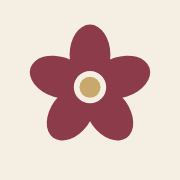
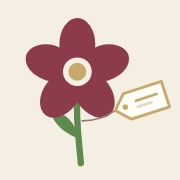
アイコン一式（名札の付いた花）・ファビコン・SNS 用バナーと紹介文
Claude-Session: https://claude.ai/code/session_01NVsEU5d99GVWPjXkzauReS

Changed region(s): [[0.1389, 0.0833, 0.9722, 0.9444]]

diff --git a/index.html b/index.html
@@ -3,23 +3,37 @@
 <head>
 <meta charset="utf-8">
 <meta name="viewport" content="width=device-width, initial-scale=1, viewport-fit=cover">
-<title>花しらべ</title>
-<meta name="description" content="写真やカメラから、花の名前を調べます。">
+<title>花しらべ｜花を撮るだけで、名前がわかる</title>
+<meta name="description" content="花の写真を撮るだけで、名前の候補がわかる無料のウェブアプリ。えらんだ名前を入れた画像を作って、写真に保存したり SNS で共有したりできます。">
+<meta property="og:type" content="website">
+<meta property="og:site_name" content="uniiqcode">
+<meta property="og:title" content="花しらべ｜花を撮るだけで、名前がわかる">
+<meta property="og:description" content="花の写真を撮るだけで、名前の候補がわかる無料のウェブアプリ。えらんだ名前を入れた画像を作って、写真に保存したり SNS で共有したりできます。">
+<meta property="og:url" content="https://uniiqcode.com/hana-shirabe/">
+<meta property="og:image" content="https://uniiqcode.com/hana-shirabe/icons/ogp.png">
+<meta property="og:image:width" content="1200">
+<meta property="og:image:height" content="630">
+<meta property="og:image:alt" content="花しらべ 花を撮るだけで、名前がわかる。">
+<meta property="og:locale" content="ja_JP">
+<meta name="twitter:card" content="summary_large_image">
+<link rel="canonical" href="https://uniiqcode.com/hana-shirabe/">
 <meta name="theme-color" content="#f5efe3">
 <link rel="manifest" href="manifest.webmanifest">
-<link rel="icon" href="icons/icon-192.png" sizes="192x192">
+<link rel="icon" href="icons/favicon.svg" type="image/svg+xml">
+<link rel="icon" href="icons/favicon-32.png" sizes="32x32" type="image/png">
+<link rel="icon" href="icons/favicon-16.png" sizes="16x16" type="image/png">
 <link rel="apple-touch-icon" href="icons/apple-touch-icon.png">
 <meta name="apple-mobile-web-app-title" content="花しらべ">
 <link rel="preconnect" href="https://fonts.googleapis.com">
 <link rel="preconnect" href="https://fonts.gstatic.com" crossorigin>
 <link href="https://fonts.googleapis.com/css2?family=Shippori+Mincho:wght@500;700&display=swap" rel="stylesheet">
-<link rel="stylesheet" href="style.css?v=2">
+<link rel="stylesheet" href="style.css?v=3">
 </head>
 <body>
 <main class="app">
   <header class="head">
     <h1>花しらべ</h1>
-    <p class="lead">花の写真から、名前を調べます</p>
+    <p class="lead">花を撮るだけで、名前がわかる</p>
   </header>
 
   <section class="picker" id="picker">
@@ -32,6 +46,13 @@
       <span>写真から選ぶ</span>
     </label>
     <p class="tip">花を画面の真ん中に、大きく写すと当たりやすくなります。</p>
+
+    <div class="about">
+      <h2>花しらべについて</h2>
+      <p>道ばたや庭で見つけた花を、スマホで撮るだけで名前を調べられます。</p>
+      <p>名前の候補から一つえらぶと、花の写真の下に名前の入った画像ができます。写真に保存したり、SNS で共有したりできます。</p>
+      <p>アプリを入れる必要はありません。ホーム画面に追加すると、アプリのように使えます。</p>
+    </div>
   </section>
 
   <section class="result" id="result" hidden>

diff --git a/icons/ogp.html b/icons/ogp.html
@@ -1,0 +1,30 @@
+<!doctype html>
+<html lang="ja">
+<head>
+<meta charset="utf-8">
+<!-- SNS 用バナー（1200×630）の元。node scripts/make-icons.cjs で ogp.png にする -->
+<link href="https://fonts.googleapis.com/css2?family=Shippori+Mincho:wght@500;700&display=block" rel="stylesheet">
+<style>
+  html, body { margin: 0; }
+  body {
+    width: 1200px; height: 630px; overflow: hidden;
+    background: #f5efe3; color: #2b2620;
+    display: flex; align-items: center; gap: 64px; padding: 0 80px; box-sizing: border-box;
+    font-family: "Hiragino Sans", "Noto Sans JP", sans-serif;
+  }
+  .icon { width: 400px; height: 400px; flex: none; border-radius: 88px; overflow: hidden; box-shadow: 0 6px 24px rgba(43,38,32,.12); }
+  .icon img { width: 100%; height: 100%; display: block; }
+  h1 { font-family: "Shippori Mincho", serif; font-weight: 700; font-size: 104px; letter-spacing: .16em; margin: 0 0 22px; }
+  p { margin: 0; font-family: "Shippori Mincho", serif; font-weight: 500; font-size: 38px; line-height: 1.6; }
+  .url { margin-top: 30px; font-family: inherit; font-size: 28px; color: #8c3b4a; letter-spacing: .02em; }
+</style>
+</head>
+<body>
+  <div class="icon"><img src="icon.svg" alt=""></div>
+  <div>
+    <h1>花しらべ</h1>
+    <p>花を撮るだけで、<br>名前がわかる。</p>
+    <p class="url">uniiqcode.com/hana-shirabe</p>
+  </div>
+</body>
+</html>

diff --git a/style.css b/style.css
@@ -51,6 +51,17 @@ body {
 .btn:active { opacity: 0.8; }
 .tip { color: var(--sub); font-size: 0.85rem; margin: 4px 0 0; text-align: center; }
 
+.about {
+  margin-top: 20px; padding: 16px 18px;
+  background: var(--card); border: 1px solid var(--line); border-radius: 14px;
+  font-size: 0.9rem; color: var(--sub);
+}
+.about h2 {
+  font-family: "Shippori Mincho", serif; font-weight: 700;
+  font-size: 1.05rem; color: var(--ink); margin: 0 0 6px;
+}
+.about p { margin: 6px 0 0; }
+
 .result { display: flex; flex-direction: column; gap: 14px; }
 .photo {
   aspect-ratio: 1 / 1; border-radius: 14px; overflow: hidden;

diff --git a/STATUS.md b/STATUS.md
@@ -13,6 +13,7 @@
 - 2026-11-28: にいさんが Cloudflare に中継 `hana-shirabe` を置き、Pl@ntNet のキーを秘密の値 `PLANTNET_API_KEY` に入れた（キーはアカウントに1つだけなので niisan.tv と共用）。住所 `https://hana-api.uniiqcode.com`（「relay: ok」を確認）。`config.js` に入れた
 - 2026-11-28: にいさんがリポジトリを公開にし、GitHub Pages を有効にした。iPhone で動くことを確認（「基本的な機能は申し分ない」）
 - 2026-11-28: にいさんの依頼で追加: 同じ名前の候補は確率の高い方だけ残す、候補から名前をえらぶ、花の写真（真ん中の正方形）の下に名前・確からしさ・出典を入れた 5:7 の画像（1500×2100）を作る、写真に保存・共有（iPhone の共有の画面。使えない時はファイルで保存）
+- 2026-11-28: アイコンをにいさんが5案から2番（名札の付いた花）に決定。ホーム画面のアイコン・ファビコン（小さくても見える簡略版）・SNS 用バナー（1200×630、OGP）を作り、紹介文をページ（「花しらべについて」）・説明文・SNS の表示に入れた
 
 ## 次にやること
 

diff --git a/README.md b/README.md
@@ -18,6 +18,6 @@
 | `config.js` | 中継の住所。空だと「お試し表示」 |
 | `worker/worker.js` | 中継（Cloudflare Workers）。Pl@ntNet に問い合わせ、Wikidata で和名を引く |
 | `tests/` | ネットにつながないテスト（`npm test`） |
-| `icons/`・`manifest.webmanifest` | ホーム画面のアイコン（`node scripts/make-icons.cjs` で `icon.svg` から作る） |
+| `icons/`・`manifest.webmanifest` | アイコン一式（`node scripts/make-icons.cjs` で作る）。`icon.svg`＝ホーム画面（名札の付いた花）、`favicon.svg`＝タブ用の簡略版、`ogp.html`→`ogp.png`＝SNS で共有した時のバナー 1200×630 |
 
 元になった仕組みは niisan.tv の花のデータベース（`uniiqcode/niisan-tv` の `backend/uniiqcode/identify_flowers.py`）。
